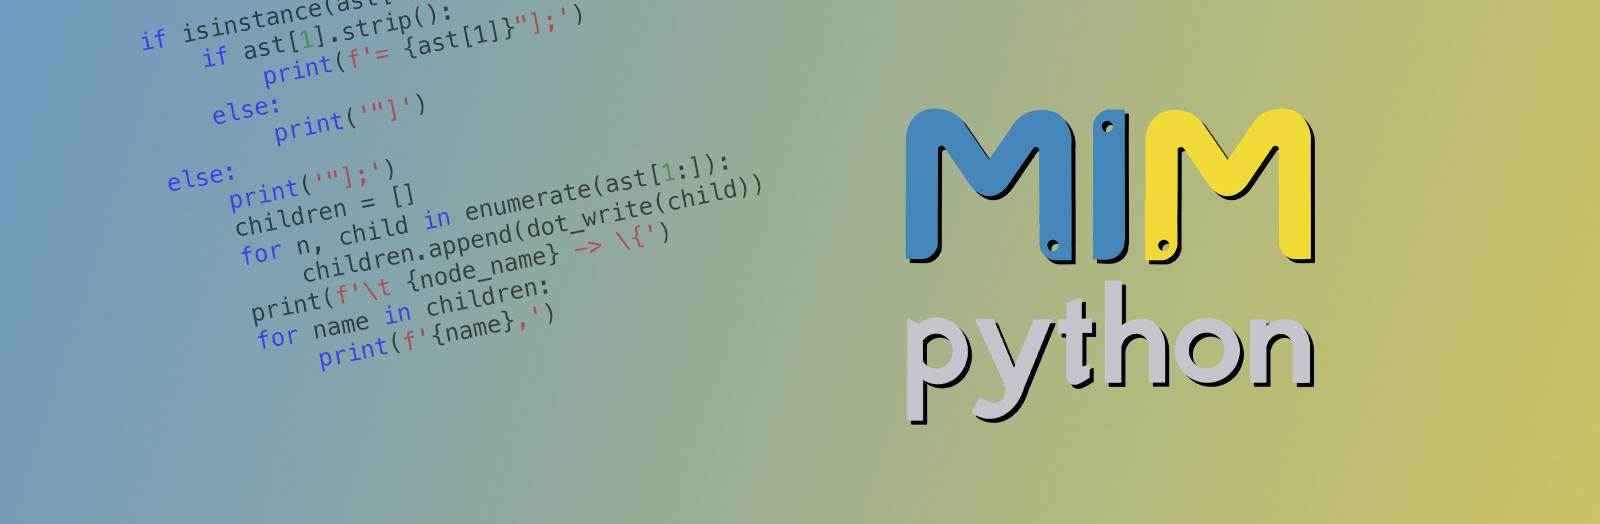
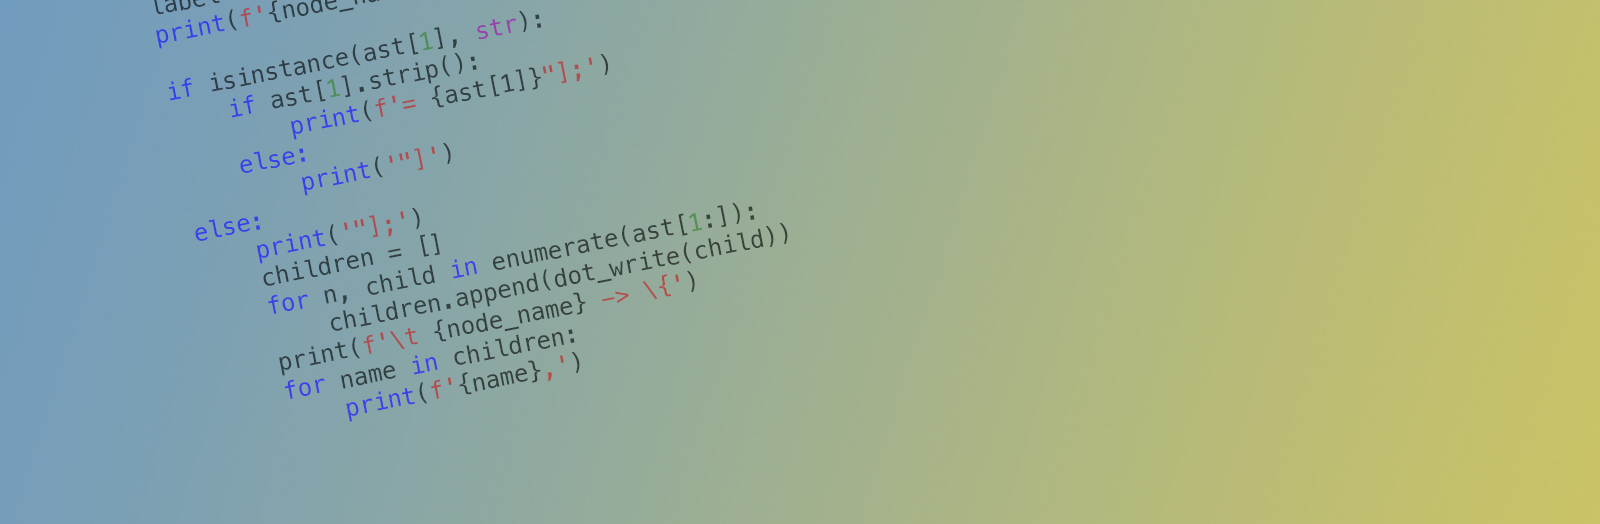
fix reponsive cover and non justify text-align

diff --git a/_includes/page__hero.html b/_includes/page__hero.html
@@ -21,6 +21,9 @@
 <div class="page__hero{% if page.header.overlay_color or page.header.overlay_image %}--overlay{% endif %}"
   style="{% if page.header.overlay_color %}background-color: {{ page.header.overlay_color | default: 'transparent' }};{% endif %} {% if overlay_img_path %}background-image: {% if overlay_filter %}{{ overlay_filter }}, {% endif %}url('{{ overlay_img_path }}');{% endif %}"
 >
+<div class="logo-cover">
+  <img src="assets\images\statics\logo.png">
+</div>
   {% if page.header.overlay_color or page.header.overlay_image %}
     <div class="wrapper">
       <h1 id="page-title" class="page__title" itemprop="headline">

diff --git a/_sass/minimal-mistakes/_page.scss b/_sass/minimal-mistakes/_page.scss
@@ -114,7 +114,7 @@ body {
   li,
   dl {
     font-size: 1em;
-    text-align: justify;
+    // text-align: justify;
   }
 
   /* paragraph indents */
@@ -575,5 +575,21 @@ body {
     @include breakpoint($x-large) {
       padding-right: 0;
     }
+  }
+}
+
+.logo-cover {
+  position: absolute;
+  top: 3em;bottom: 3em;
+  right: 12%;
+  z-index: -1;
+  max-width: 76%;
+  display: flex;
+
+  img {
+    max-width: 100%;
+    max-height: 100%;
+    margin: auto;
+    object-fit: contain
   }
 }

diff --git a/_sass/minimal-mistakes/_archive.scss b/_sass/minimal-mistakes/_archive.scss
@@ -82,7 +82,6 @@ a.card, a.card:hover {
   p {
     font-size: 0.7em;
     word-wrap: break-word;
-    word-break: break-all;
   }
 }
 .archive__item {
